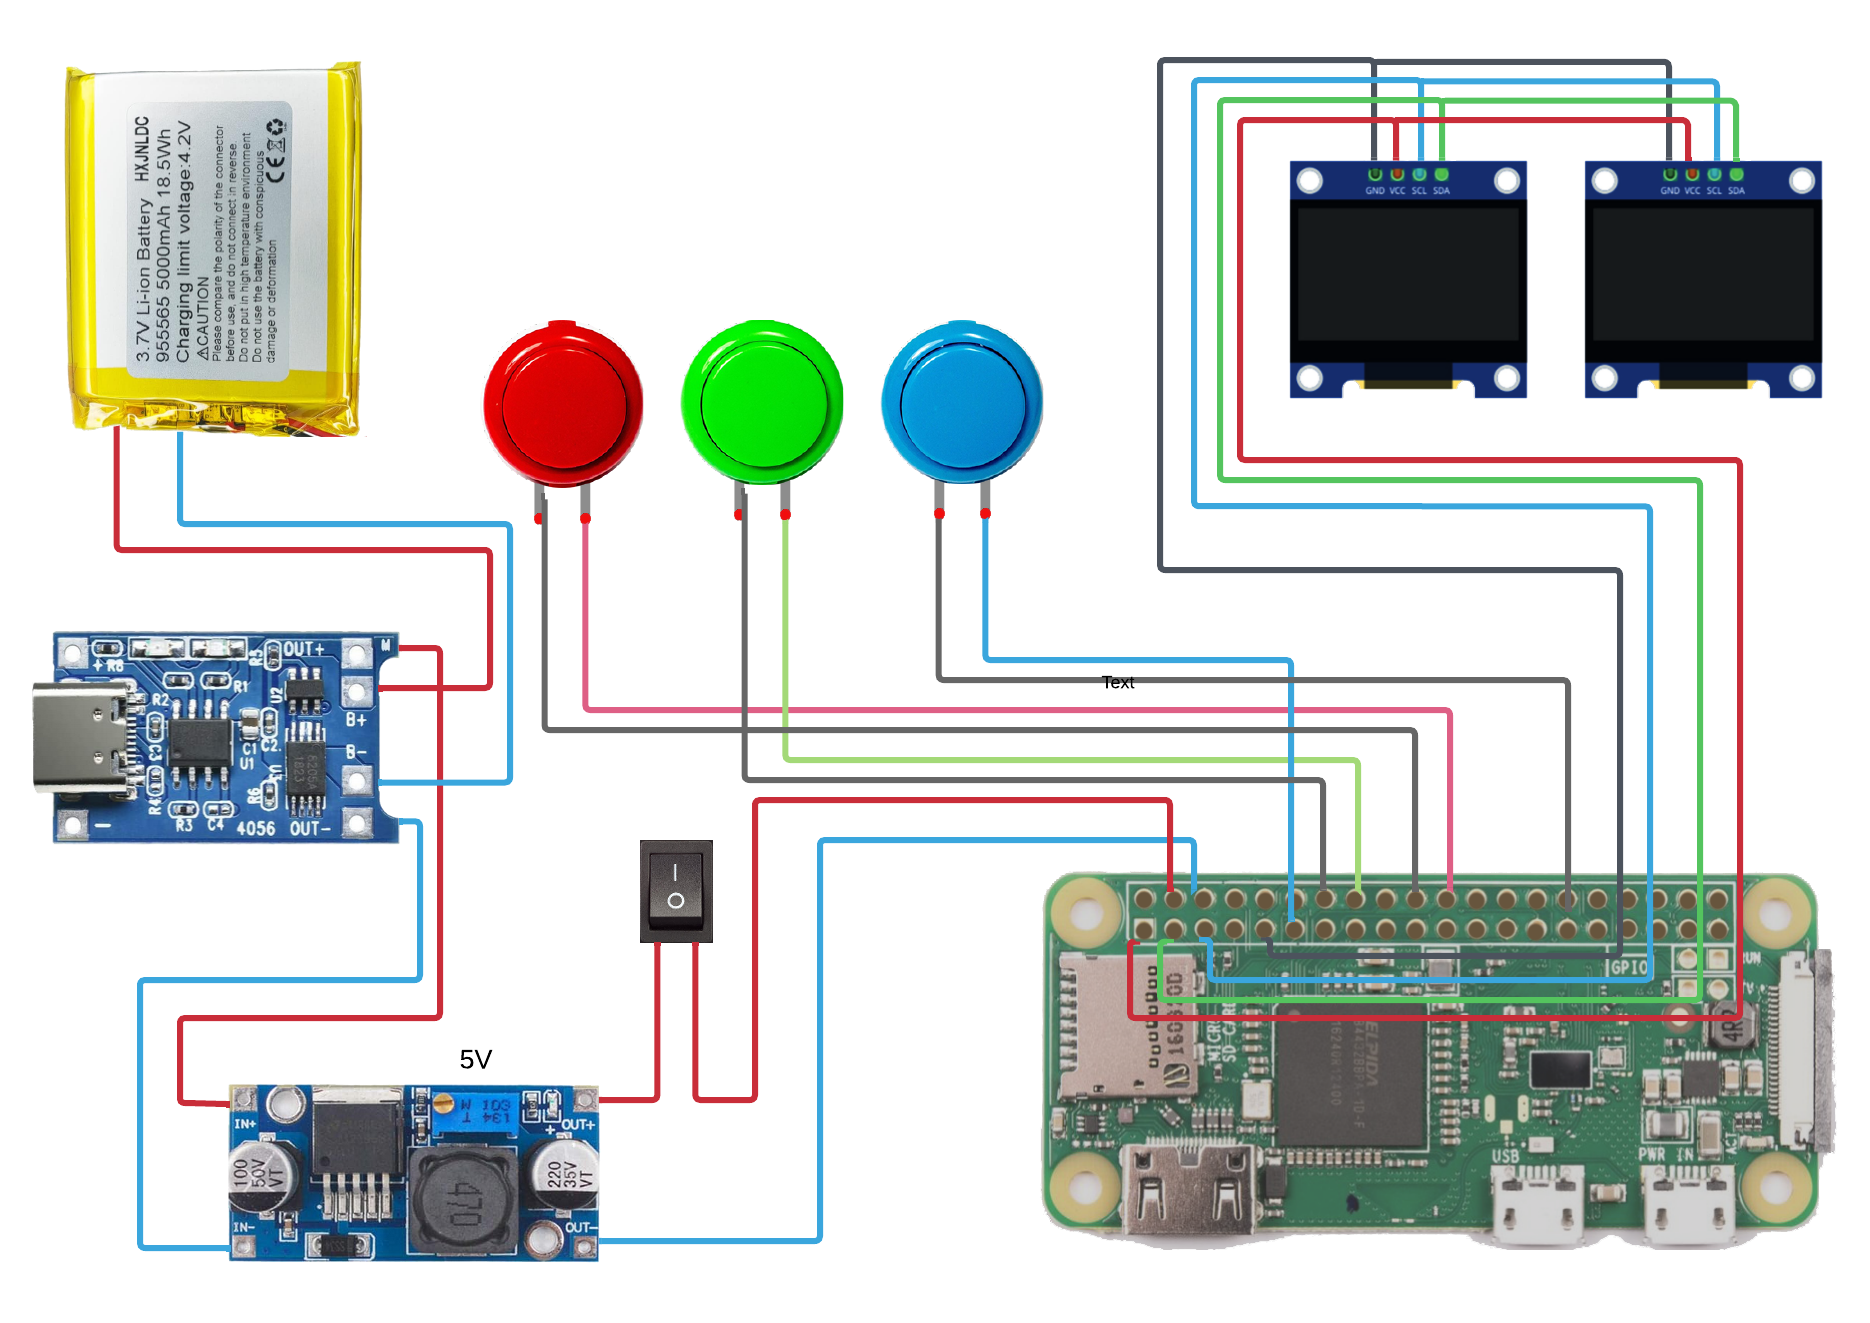
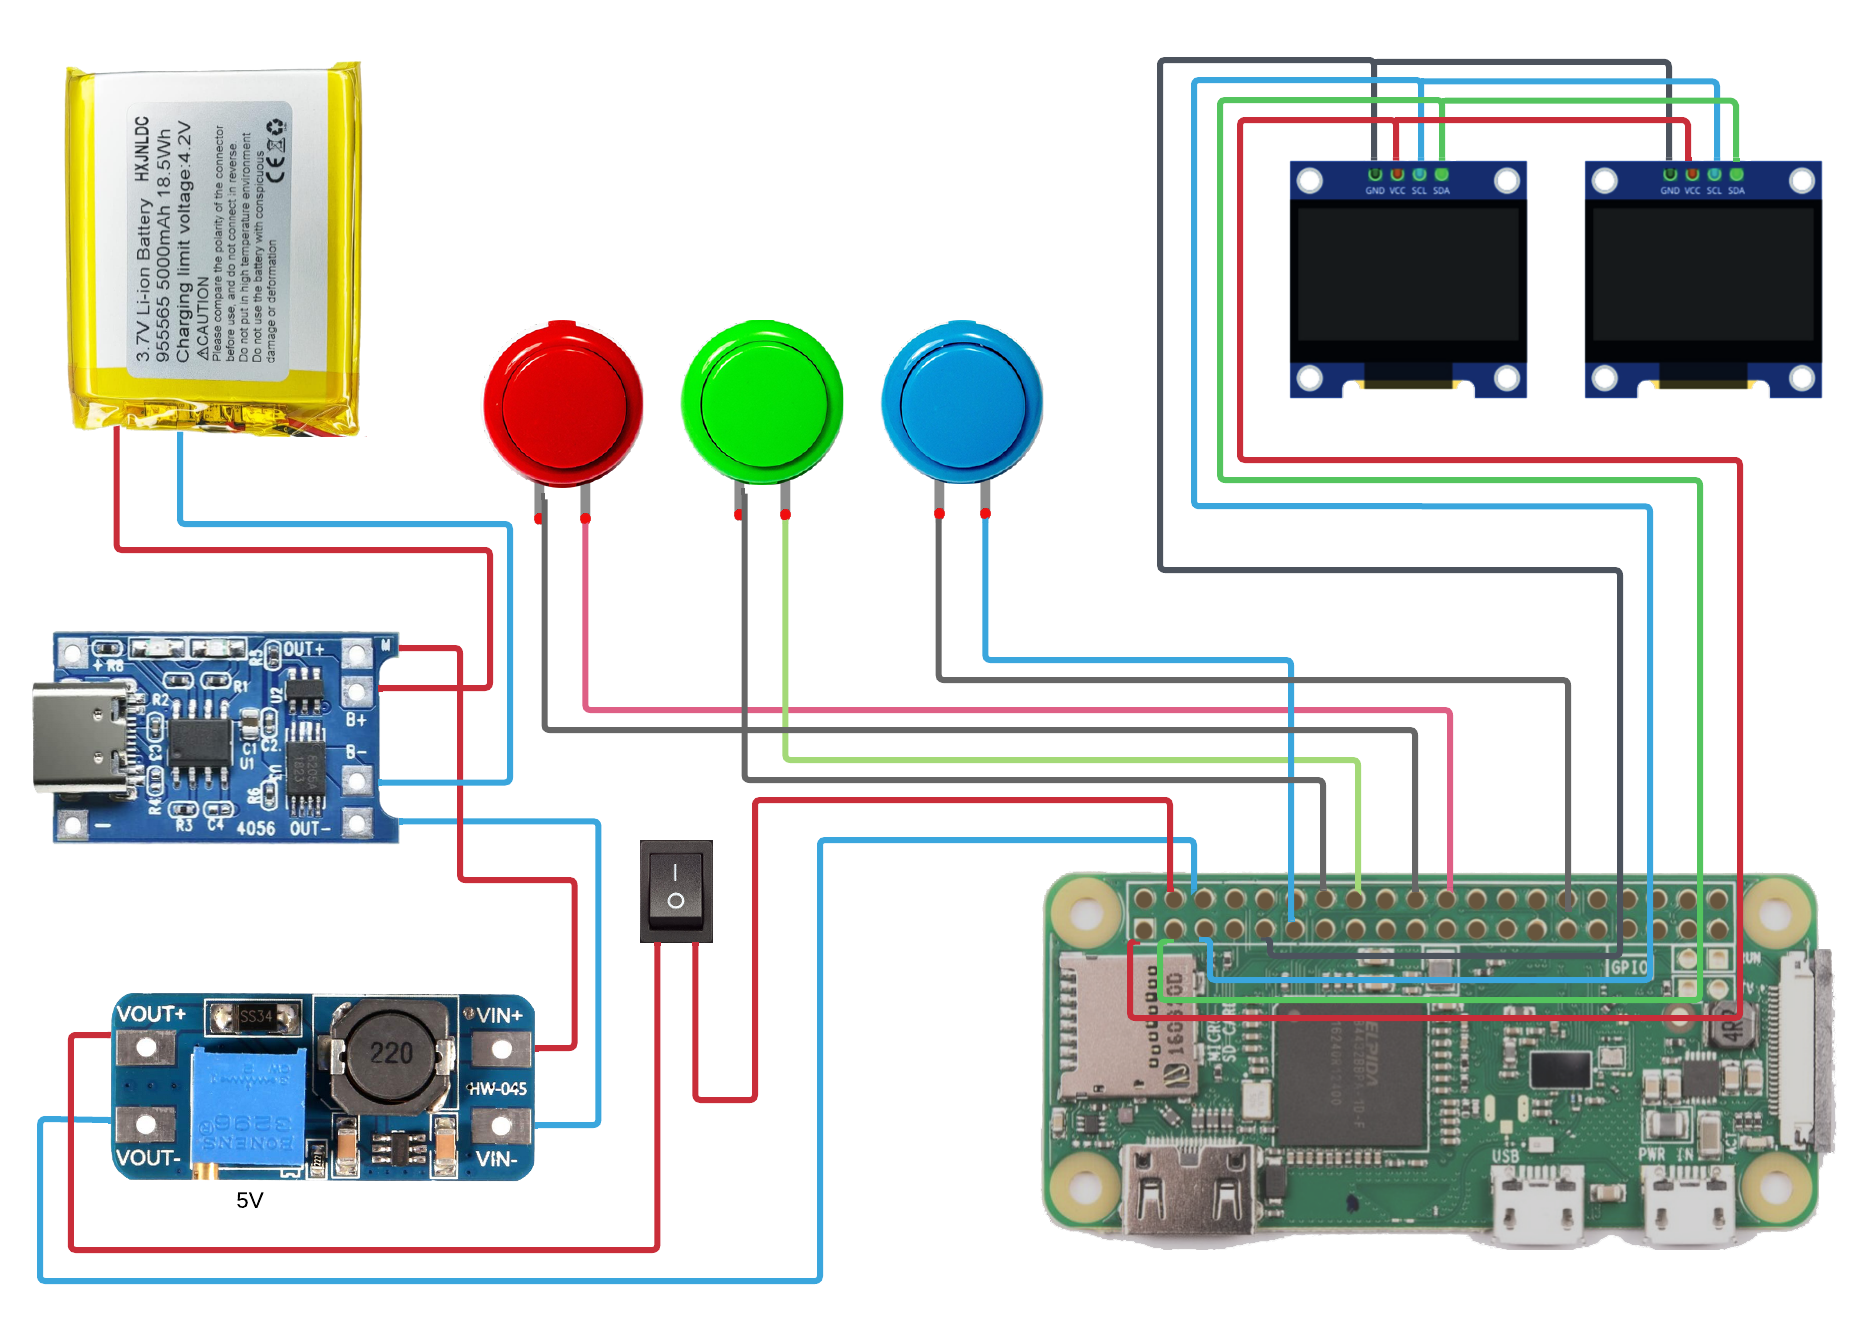
Replace buck converter with step up converter

Changed region(s): [[0.0, 0.4958, 0.4652, 0.9917]]

diff --git a/hardware/README.md b/hardware/README.md
@@ -4,7 +4,7 @@
 * 2 x AZDelivery SSD1306 OLED screen
 * 1 x Raspberry Pi Zero W
 * 1 x TP4056 battery charger
-* 1 x LM2596S buck converter
+* 1 x MT3608 step up converter
 * 1 x 5000MAh LiPo battery
 * 3 x Clicker buttons
 * 1 x Power button
